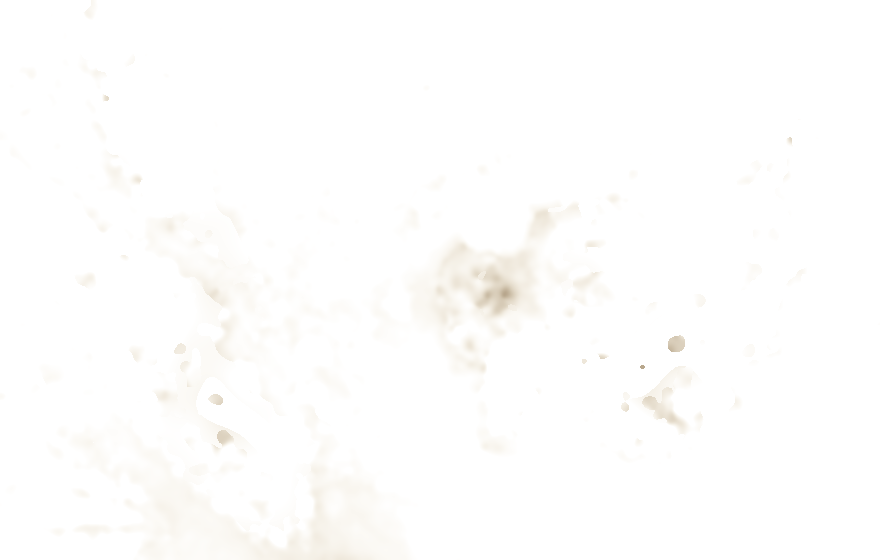
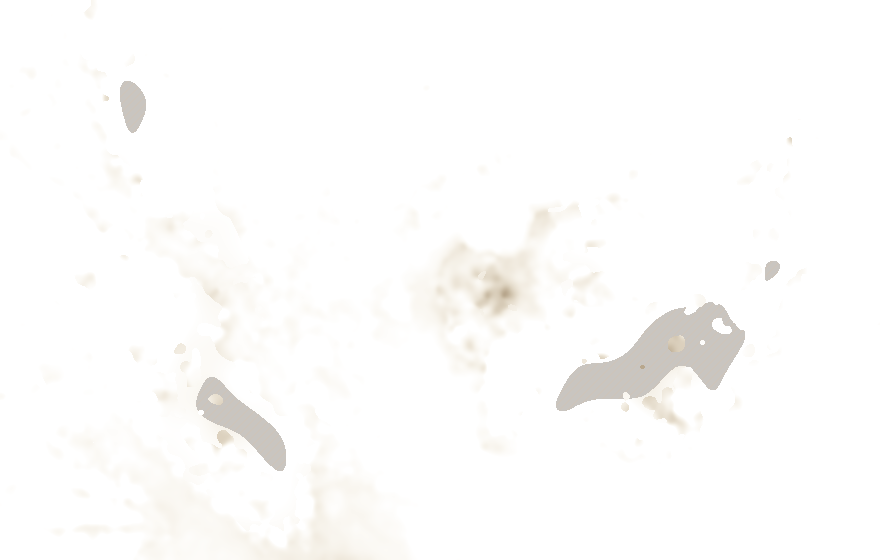
Smoke: hatch no-reading holes, add AOD scale
Areas with no AOD even after the fill (cloud, or smoke too thick for Deep Blue
to retrieve) are drawn as grey stripes instead of clear air. Colour bar with
0.3 / 1 / 2 / 3+ ticks and a no-reading swatch under the smoke toggle.

diff --git a/web/style.css b/web/style.css
@@ -86,6 +86,13 @@ footer { margin-top: auto; display: grid; gap: 10px; }
 #chart circle.hh { fill: var(--hh); stroke: none; }
 .probenote { margin: 6px 0 0; font-size: 13px; color: var(--ink); }
 .smokenote { margin: 4px 0 0 30px; font-size: 12px; color: var(--muted); }
+.smokenote p { margin: 0 0 6px; }
+.aodbar { height: 10px; border-radius: 3px; margin-top: 2px;
+  background: linear-gradient(90deg, rgba(226,205,160,0) 0%, rgba(226,205,160,0.75) 26%, rgb(170,145,112) 63%, rgb(96,74,56) 100%); }
+.aodticks { position: relative; height: 14px; margin: 2px 0 8px; font-size: 11px; }
+.aodticks span { position: absolute; top: 0; white-space: nowrap; }
+.aodticks span[style^="left:26"], .aodticks span[style^="left:63"] { transform: translateX(-50%); }
+.key.nodata { background: repeating-linear-gradient(45deg, #beb4a8 0 2px, #8c847a 2px 7px); }
 .city { white-space: nowrap; font: 600 12px/1.2 system-ui, sans-serif; color: #fff; background: rgba(16, 20, 18, 0.85);
   border-radius: 6px; padding: 3px 7px; transform: translate(-50%, -50%); border-left: 3px solid #8aa; width: max-content; }
 .city b { font-weight: 600; color: var(--muted); margin-right: 4px; }

diff --git a/web/index.html b/web/index.html
@@ -32,7 +32,12 @@
       <label><input type="checkbox" id="tPeat"> Peat: dark = burned peat (the CO₂)</label>
       <label><input type="checkbox" id="tFires"> Fire detections (FIRMS)</label>
       <label><input type="checkbox" id="tSmoke"> Smoke over the region (NASA VIIRS)</label>
-      <p class="smokenote" id="smokeNote" hidden>Haze is what normal satellites see. Holes are filled from the steps either side and nearby readings. Numbers are aerosol optical depth: under 0.3 is clear, over 1 is thick smoke.</p>
+      <div class="smokenote" id="smokeNote" hidden>
+        <p>Haze is what normal satellites see, as aerosol optical depth (how much sunlight the smoke blocks).</p>
+        <div class="aodbar"></div>
+        <div class="aodticks"><span style="left:0">0.3 clear</span><span style="left:26%">1 hazy</span><span style="left:63%">2</span><span style="right:0">3+ thick</span></div>
+        <p><span class="key nodata"></span>No reading: cloud, or smoke too thick to measure. Small gaps are filled from nearby readings.</p>
+      </div>
       <div class="agree" id="agree" hidden></div>
     </section>
 

diff --git a/pipeline/smoke.py b/pipeline/smoke.py
@@ -121,6 +121,13 @@ def main() -> None:
         rgba = np.zeros((H, W, 4), np.uint8)
         rgba[..., :3] = (light + (dark - light) * t[..., None] ** 0.8).astype(np.uint8)
         rgba[..., 3] = np.where(np.isfinite(mean), (np.clip((mean - 0.3) / 1.2, 0, 1) ** 0.8 * 225), 0).astype(np.uint8)
+        # No reading even after the fill: grey veil with diagonal stripes, never drawn as clear air.
+        # Deep Blue skips cloud and also smoke too thick to retrieve, so these holes are often the worst smoke.
+        yy, xx = np.mgrid[0:H, 0:W]
+        stripe = ((xx + yy) % 8) < 2
+        hole = ~np.isfinite(mean)
+        rgba[hole & stripe] = (190, 180, 168, 200)
+        rgba[hole & ~stripe] = (140, 132, 122, 120)
         Image.fromarray(rgba).save(mosaic.WEB / f"smoke_{s:02d}.png", optimize=True)
         for name, (lat, lon) in CITIES.items():
             r, c = int((NORTH - lat) / 0.025), int((lon - WEST) / 0.025)
